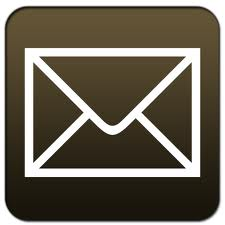
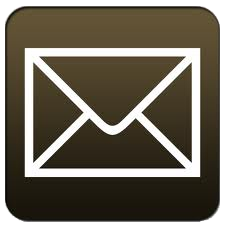
copy room info to email feature added

diff --git a/projects/server/carousel/js/index.js b/projects/server/carousel/js/index.js
@@ -332,6 +332,73 @@ function carouselItemClick(
 
 /*++++++++++++++++++++++++++++++++++++++++++++++++++++++++++++++++++++++++*/
 /**
+ * \brief Open dialog with room description so user can copy to clipboard
+ */
+function openCopyData
+(
+  event
+)
+{
+  if (!event)
+  {
+    return false;
+  }
+  
+  // get the dialog
+  var jqWin = $("#boxes > div#copyData");
+  
+  // set the room name
+  var name = $('div#copyContent > #copyName', jqWin);
+
+  $(name).text('Carousel room ' + $.getUrlVar('roomname'));
+  $(name).attr("href", window.location.href);
+  
+  // position the dialog
+  cX = event.clientX;
+  cY = event.clientY;
+
+  var winW = $(window).width();
+  var winH = $(window).height();
+  var wcW = jqWin.outerWidth();
+  var wcH = jqWin.outerHeight();
+  
+  // todo parse css dimension and use it to place dlg
+  //var marginRight = $(jqWin).css("margin-right");
+  //var marginBottom = $(jqWin).css("margin-bottom");
+  var marginRight = 20;
+  var marginBottom = wcH/5 + 20;
+
+  // move dialog up if past bottom
+  if ((cY + wcH + marginBottom) > winH)
+  {
+    jqWin.css("top", winH - wcH - marginBottom);
+  }
+  else // place dialog at event location 
+  {
+    jqWin.css("top", cY);
+  }
+  
+  // move dialog right if past right edge
+  if ((cX + wcW + marginRight) > winW) 
+  {
+    jqWin.css("left", winW - wcW - marginRight);
+  }
+  else // place dialog at event location 
+  {
+    jqWin.css("left", cX);
+  }
+  
+  // display dlg
+  jqWin.fadeIn(700);
+  jqWin.addClass("active");
+
+  // set focus on message text input
+  //$("input.chatTo", jqWin).focus();
+  return false;
+}
+
+/*++++++++++++++++++++++++++++++++++++++++++++++++++++++++++++++++++++++++*/
+/**
  * \brief Open Chat Input.
  */
 function openChat(
@@ -1120,11 +1187,15 @@ function tryPluginInstall(
  */
 function showChatOut()
 {
-   // hide the ticker
-   $('#msgTicker').css("display", "none");
+
+   if ($('#msgBoard > #chatOut').text().length > 0)
+   {
+      // hide the ticker
+      $('#msgTicker').css("display", "none");
    
-   // show chatOut
-   $('#msgBoard > #chatOut').css("display", "block");
+      // show chatOut
+      $('#msgBoard > #chatOut').css("display", "block");
+   }
    
 } // showChatOut
 

diff --git a/projects/server/carousel/css/index.css b/projects/server/carousel/css/index.css
@@ -107,8 +107,12 @@ body > div#lower-right > input.demobtn {
   background-image: url("../images/demo.png");
 }
 body > div#lower-right > input.feedback {
-  margin-left: 15px;
   background-image: url("../images/btn-feedback.png");
+}
+body > div#lower-right > input.copyData {
+  margin-left: 15px;
+  background-image: url("../images/email.png");
+  background-size:100%
 }
 body > div#lower-right > input.twitter {
   background-image: url("../images/btn-twitter.png");
@@ -150,7 +154,9 @@ body > div#msgBoard {
 body>div#msgBoard > div#chatOut
 {
   display:none;
-  height:125px;
+  max-height:125px;
+  min-height: 3em;
+  height: auto;
   width:300px;
   overflow:auto;
   line-height: 1em;
@@ -225,6 +231,7 @@ body > div#meeting > div#streams > div#scarousel div.cloudcarousel.typeContent >
   clear: left;
   background-color: transparent;
   background-size: 98%;
+  background-repeat: no-repeat
   width: 40px;
   height:40px;
   margin-left:auto;
@@ -493,7 +500,43 @@ body > div#meeting > div#streams > div#scontrols > input.right {
   float: right;
   margin-right: 5px;
 }
-#boxes #fbPrompt
+#boxes #copyData
 {
-   display: none;
+   border: 5px solid rgba(40, 40, 40, .5);
+   margin-right: 20px;
+   margin-bottom: 100px;
+   background-color: #cccccc;
+   -moz-user-select: text;
+   -khtml-user-select: text;
+   -webkit-user-select: text;
+   -o-user-select: text;
+   user-select: text;
+}
+#boxes #copyData p
+{
+   text-align: center;
+}
+#boxes #copyData #copyContent
+{
+   overflow: hidden;
+   background-color: white;
+}
+#boxes #copyData #copyContent h2
+{
+   white-space: nowrap;
+   margin-left: 10px;
+   margin-right: 10px;
+}
+#boxes #copyData #copyContent #copyLogo
+{
+   margin-left: 3px;
+   margin-right: 3px;
+   float:left;
+}
+#boxes #copyData img.close 
+{
+  float: right;
+  width: 10px;
+  height: 10px;
+  margin: 5px;
 }

diff --git a/projects/server/carousel/index.html b/projects/server/carousel/index.html
@@ -65,6 +65,7 @@
     <div id="lower-right">
        <input class="demobtn" type="button" title="Place demo content." onclick="startDemoContent();" />
        <input class="feedback" type="button" title="Send us your feedback." onclick="openChat(event);"/>
+       <input class="copyData" type="button" title="Copy data to clipboard." onclick="openCopyData(event);"/>
        <input class="twitter" type="button" title="Send message to Twitter." onclick="sendTwitter();"/>
        <input class="fbSend"  type="button" title="Send facebook message." onclick="fbSendDialog();"/>
        <input class="fbShare" type="button" title="Share on wall." onclick="fbShare();"/>
@@ -84,6 +85,15 @@
         <form action="https://video.gocast.it/downloads/GoCastPlayer.msi" method="post">
           <input type="submit" value="Accept"/>
         </form>
+      </div>
+      <div id="copyData" class="window resizable">
+         <img class="close" src="images/button-close.png" alt="Close" title="Close" />
+         <p>Copy this and paste it into an email.</p>
+         <div id="copyContent">
+            <h2>Join us now on the Carousel</h2>
+            <img id="copyLogo" src="images/gologo.png" />
+            <a id="copyName"></a>
+         </div>
       </div>
       <div id="waitingToJoin" class="window resizable">
         <img src="images/waiting-join.gif" />
